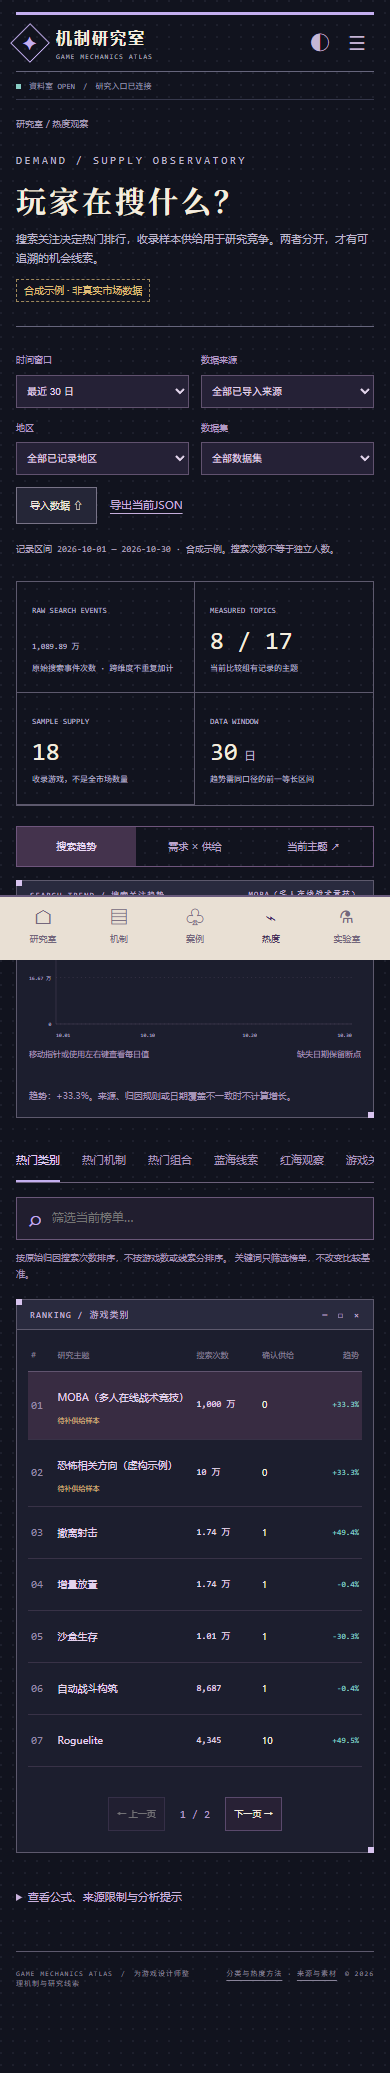
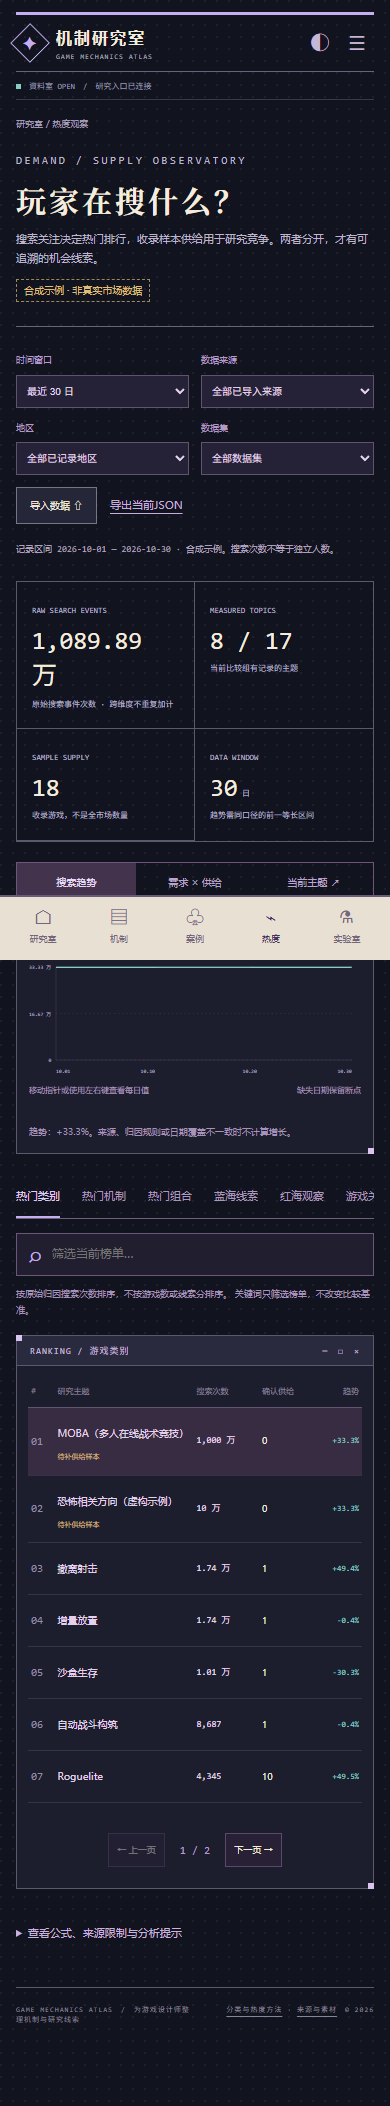
docs: record final review and verified production screenshots

diff --git a/docs/verification.md b/docs/verification.md
@@ -11,7 +11,7 @@
 |Windows文件系统兼容|`npm run test:readlink`：24项通过；包含真实子进程与孙进程|
 |优化生产构建|`npm run build`通过；98/98页面生成、TypeScript与文件追踪均启用|
 |生产启动|`npm start`在127.0.0.1:3000启动成功|
-|浏览器验收|生产服务18个Playwright场景全部通过（最终运行1.0分钟）|
+|浏览器验收|生产服务21个Playwright场景全部通过（最终运行1.1分钟）|
 |内容路由|96个正式入口及机制／游戏／类型详情均为HTTP200|
 |最终截图|10个桌面／手机视图，均无页面脚本错误与文档横向溢出|
 |依赖检查|`npm audit --omit=dev`：0漏洞|
@@ -36,6 +36,9 @@
 - 供给查询补上未观察但已注册的模式，保留未知；缺失主题记录不当成实测零；归因权重变化不伪装为增长。上述领域问题均有先失败后通过的专项回归及独立复核。
 - 独立界面审阅发现导入记录随页面导航丢失、快捷搜索焦点不在输入框；增加根级会话数据Provider与搜索弹窗的显式初始焦点。导入→案例→首页→热度、精确JSON导出、错误导入保留、刷新重置，以及Ctrl/Cmd K直接输入均通过专项回归。
 - 复核发现混合来源摘要未明确提示合成成分；改为按实际来源集合显示混合与合成声明，覆盖首页、案例和对比页。纯合成、纯外部与混合分支均通过，768／390像素的混合文案布局通过。
+- 全分支审阅发现SVG节点原生跳转会重置工作数据，改为保留链接语义的客户端导航；首页与案例SVG的鼠标、键盘、新标签、精确导出及刷新边界均通过生产回归。
+- 完整零值数据在共享摘要中曾因相对指数不可算而被当成未采集，改按实际测量状态显示0与0.0%趋势；真正缺失主题继续显示未采集。
+- 统计数字的可见span曾被通用说明文字规则缩小，已收窄选择器；实际桌面首页／热度数字为32／30px，手机为26／25px，与其数字容器一致。
 
 部分初次浏览器失败来自测试脚本的文字定位假设及Next流式隐藏片段；最终测试等待真实片段消费完成，再对可操作页面断言，没有为了通过测试删改机制证据或伪造数据。测试终端仍可能显示宿主同时设置NO_COLOR和FORCE_COLOR的Node提示，不影响断言结果。
 
@@ -67,4 +70,8 @@
 16. 初始内容达到要求并保留证据边界。
 17. 私有仓库创建与远程提交核验将在上传后记录。
 
-独立界面审阅：首轮2项Important已修复，修订复核的1项混合来源提示也已修复；最终需求与代码质量均PASS，0项未关闭。最终全分支审阅将在完成后补充。
+独立界面审阅：首轮2项Important已修复，修订复核的1项混合来源提示也已修复；需求与代码质量均PASS。最终全分支审阅另提出2项Important与2项Minor，已在一次集中修复后复核关闭，无新增缺陷，0项未关闭。
+
+集中修复在开发服务第一次冷启动并发检查中出现过导航回归失败，具体时序原因未被证明；未改代码的后续回放和独立事件检查通过。最终独立启动的优化生产服务在没有截图并发的情况下，第一次完整回放21/21通过，包括这两条SVG路径。没有把开发阶段异常写成已查明原因或跨环境通过。
+
+实现取舍：搜索种子采用确定性TypeScript生成器，仍可导出标准JSON，未来改为静态文件只需替换输入；参考选择的收藏保留在参考板，应用本轮完成游戏对比，若新增站内收藏需另行实现。它们不改变原始分类、分析或交付要求。

diff --git a/docs/superpowers/plans/2026-10-30-atlas.md b/docs/superpowers/plans/2026-10-30-atlas.md
@@ -71,6 +71,6 @@
 - [x] 运行类型检查、全部单元测试、生产构建；修复实际失败。
 - [x] Playwright验证路由、搜索/筛选、图谱、热度公式显示、实验室、比较、导入错误、空状态、手机与减弱动态。
 - [x] 实际查看桌面/手机截图，对照Task 1样张修正。
-- [ ] 新鲜独立审阅，再处理重要问题；记录实际测试范围。
+- [x] 新鲜独立审阅，再处理重要问题；记录实际测试范围。
 - [ ] 检查Git差异、忽略项和资源来源；创建`game-mechanics-atlas`私有仓库、提交推送、重新核验private与远端commit。
 - [ ] 交付运行命令、功能、视觉与数据说明、测试和仓库地址，完整核对原始17项标准。

diff --git a/docs/progress.md b/docs/progress.md
@@ -1,6 +1,6 @@
 # 项目进度
 
-**当前状态：粗线赛璐璐女仆、六类高保真基准与正式网站已实现；独立界面审阅通过，52项领域测试、24项兼容测试、18个生产浏览器场景、96条路由和10个实际截图视图均通过。正在完成全分支审阅与私有仓库交付。** 下方保留前序阶段记录，不作为当前待办。
+**当前状态：网站与六类先行样张已完成；独立界面及全分支审阅通过。52项领域测试、24项兼容测试、21个生产浏览器场景、96条路由和10个实际截图视图均通过。正在交付GitHub私有仓库。** 下方保留前序阶段记录，不作为当前待办。
 
 ## 当前目标
 
